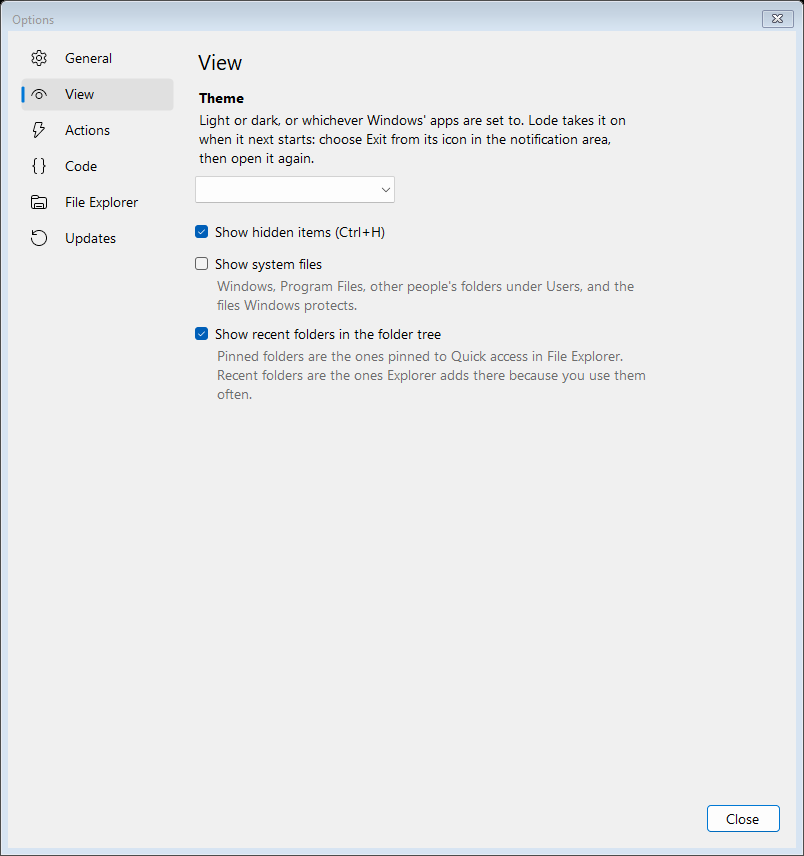
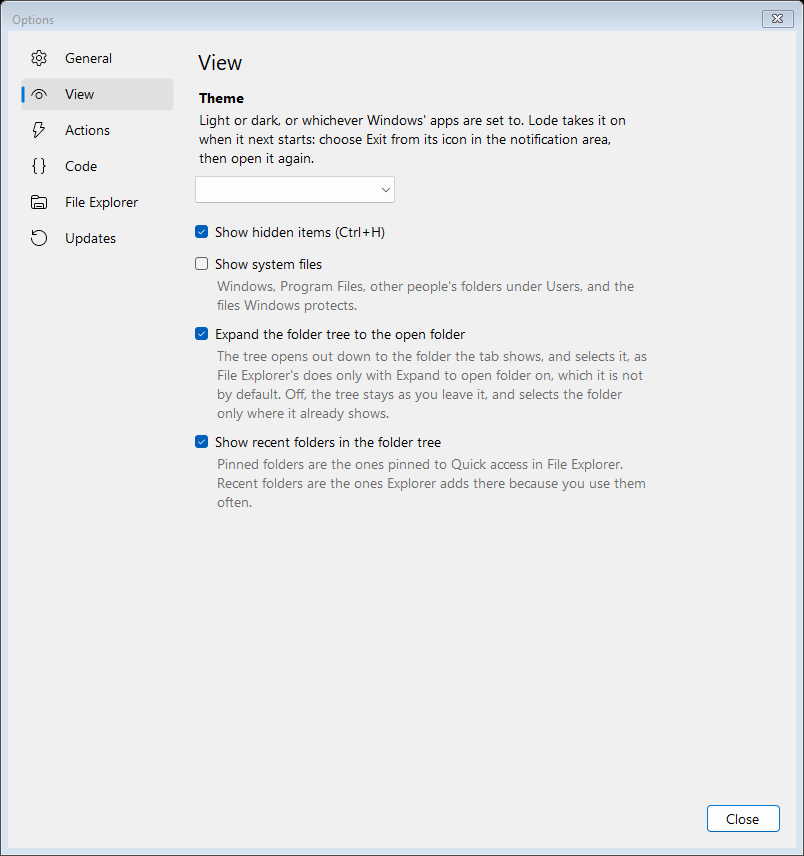
Expand the folder tree to the open folder, on the View page of Options, can be turned off. On, as before, the tree opens out down to whichever folder the tab shows and selects it, which Explorer's navigation pane only does with Expand to open folder turned on, and that is off by default. Off, the tr

Changed region(s): [[0.2488, 0.3645, 0.8085, 0.6075]]

diff --git a/src/Lode/FolderTree.cs b/src/Lode/FolderTree.cs
@@ -1095,11 +1095,18 @@ sealed class FolderTree : TreeView
     }
 
     /// <summary>
-    /// Moves the selection to the node for <paramref name="path"/>, expanding down to it.
+    /// Moves the selection to the node for <paramref name="path"/>, expanding down to it. With
+    /// <see cref="Settings.ExpandToOpenFolder"/> off, only selects it where it already shows.
     /// </summary>
     public void SelectPath(string path)
     {
         wanted = path;
+
+        if (!settings.ExpandToOpenFolder)
+        {
+            SelectShowing(path);
+            return;
+        }
 
         // A selected shortcut still moves to the folder in the tree below, when there is one.
         if (SelectedNode is { Tag: string selected } current &&
@@ -1119,6 +1126,78 @@ sealed class FolderTree : TreeView
         }
 
         Track(SelectAsync(path));
+    }
+
+    // Without expanding to the open folder, as Explorer's tree is by default: nothing is read,
+    // expanded or scrolled to. The folder is selected where it already shows, a pinned or recent
+    // entry for it included, and otherwise nothing is, rather than a folder it has left.
+    void SelectShowing(string path)
+    {
+        // Anywhere on its way to being selected, from before the option was turned off, has
+        // been overtaken.
+        selectVersion++;
+        selecting = null;
+
+        // A pinned entry just picked stays selected, rather than handing on to the folder below.
+        if (SelectedNode is { Tag: string selected } &&
+            Locations.Same(selected, path))
+        {
+            return;
+        }
+
+        var node = ShowingNode(path);
+        SelectedNode = node;
+
+        // Taking the selection away raises no AfterSelect.
+        if (node == null)
+        {
+            ShowShortcutsSelected(null);
+            WatchSelected(null);
+        }
+    }
+
+    // The node for the folder where the tree shows it: under This PC, down through folders that
+    // are expanded, or else an entry in a Pinned or Recent section that is. Null where it
+    // doesn't show.
+    TreeNode? ShowingNode(string path)
+    {
+        if (Locations.IsThisPC(path))
+        {
+            return places.ShowComputer ? computerNode : null;
+        }
+
+        TreeNode? current = null;
+        if (places.ShowComputer &&
+            computerNode.IsExpanded)
+        {
+            current = computerNode.Nodes
+                .Cast<TreeNode>()
+                .Where(_ => Locations.IsWithin(path, (string)_.Tag!))
+                .MaxBy(_ => ((string)_.Tag!).Length);
+        }
+
+        while (current != null)
+        {
+            if (Locations.Same((string)current.Tag!, path))
+            {
+                return current;
+            }
+
+            if (!current.IsExpanded)
+            {
+                break;
+            }
+
+            current = current.Nodes
+                .Cast<TreeNode>()
+                .FirstOrDefault(_ => _.Tag is string child && Locations.IsWithin(path, child));
+        }
+
+        return Nodes
+            .Cast<TreeNode>()
+            .Where(_ => _ is { Tag: Section, IsExpanded: true })
+            .SelectMany(_ => _.Nodes.Cast<TreeNode>())
+            .FirstOrDefault(_ => Locations.Same((string)_.Tag!, path));
     }
 
     // Goes down to the folder as far as the tree has been read, reads the folders still in the

diff --git a/src/Lode.Tests/FolderTreeTests.cs b/src/Lode.Tests/FolderTreeTests.cs
@@ -201,6 +201,64 @@ public class FolderTreeTests
         await Verify(Dump(tree));
     }
 
+    // With Expand to open folder off, as Explorer's tree is by default, nothing is read or
+    // expanded: a folder is selected only where the tree already shows it, and where it doesn't,
+    // nothing is, rather than the folder before.
+    [Test]
+    public async Task WithoutExpandingToTheOpenFolderOnlyAFolderShowingIsSelected()
+    {
+        using var fixture = Fixture.Create();
+        using var tree = Create(fixture, new() { ShowHidden = false, ExpandToOpenFolder = false });
+
+        tree.SelectPath(fixture.At("Source", "Deep"));
+        await Pump.Loaded(tree);
+        var notShowing = Dump(tree);
+
+        await Expand(tree, await Projects(tree));
+        tree.SelectPath(fixture.At("Docs"));
+        await Pump.Loaded(tree);
+        var showing = Dump(tree);
+
+        tree.SelectPath(fixture.At("Source", "Deep"));
+        await Pump.Loaded(tree);
+
+        await Verify(
+            new
+            {
+                notShowing,
+                showing,
+                thenOneNotShowing = Dump(tree)
+            });
+    }
+
+    // Picked where it is pinned, a folder stays selected there, rather than handing on to the
+    // folder under This PC, which would expand down to it.
+    [Test]
+    public async Task WithoutExpandingToTheOpenFolderAPickedPinnedFolderStaysSelected()
+    {
+        using var fixture = Fixture.Create();
+        using var tree = Create(fixture, new() { ShowHidden = false, ExpandToOpenFolder = false }, fixture.At("Source"));
+        var selected = new List<string>();
+        tree.PathSelected += selected.Add;
+
+        tree.SelectByUser(tree.Nodes[0].Nodes[0]);
+        // As the window does once the tab has gone there.
+        tree.SelectPath(fixture.At("Source"));
+        await Pump.For(TimeSpan.FromMilliseconds(100));
+        var picked = Dump(tree);
+
+        tree.SelectPath(fixture.At("Docs"));
+        await Pump.Loaded(tree);
+
+        await Verify(
+            new
+            {
+                selected = selected.Select(fixture.Relative),
+                picked,
+                thenOneNotShowing = Dump(tree)
+            });
+    }
+
     [Test]
     public async Task PinnedAndRecentAreSeparateSections()
     {

diff --git a/src/Lode/OptionsForm.cs b/src/Lode/OptionsForm.cs
@@ -46,6 +46,14 @@ class OptionsForm : Form
         Margin = new(3, 0, 3, 0)
     };
 
+    readonly CheckBox expandToOpenFolder = new()
+    {
+        Name = "expandToOpenFolder",
+        Text = "Expand the folder tree to the open folder",
+        AutoSize = true,
+        Margin = new(3, 0, 3, 0)
+    };
+
     readonly CheckBox showRecent = new()
     {
         Name = "showRecent",
@@ -269,6 +277,12 @@ class OptionsForm : Form
         theme.SelectedIndexChanged += (_, _) =>
         {
             settings.Theme = (Theme) theme.SelectedIndex;
+        };
+        expandToOpenFolder.Checked = settings.ExpandToOpenFolder;
+        expandToOpenFolder.CheckedChanged += (_, _) =>
+        {
+            settings.ExpandToOpenFolder = expandToOpenFolder.Checked;
+            SettingsChanged?.Invoke();
         };
         showRecent.Checked = settings.ShowRecent;
         showRecent.CheckedChanged += (_, _) =>
@@ -506,6 +520,11 @@ class OptionsForm : Form
         showHidden,
         showSystem,
         Note("Windows, Program Files, other people's folders under Users, and the files Windows protects."),
+        expandToOpenFolder,
+        Note(
+            "The tree opens out down to the folder the tab shows, and selects it, as File " +
+            "Explorer's does only with Expand to open folder on, which it is not by default. Off, " +
+            "the tree stays as you leave it, and selects the folder only where it already shows."),
         showRecent,
         Note(
             "Pinned folders are the ones pinned to Quick access in File Explorer. Recent folders " +

diff --git a/src/Lode.Tests/OptionsFormTests.cs b/src/Lode.Tests/OptionsFormTests.cs
@@ -208,6 +208,28 @@ public class OptionsFormTests
             });
     }
 
+    // On by default, unlike Explorer's Expand to open folder.
+    [Test]
+    public async Task UntickingExpandToOpenFolderChangesTheSetting()
+    {
+        using var scratch = new RegistryScratch();
+        var settings = new Settings();
+        using var form = Show(scratch.Replacement(), settings);
+        var changes = 0;
+        form.SettingsChanged += () => changes++;
+        var before = settings.ExpandToOpenFolder;
+
+        ((CheckBox) form.Controls.Find("expandToOpenFolder", true)[0]).Checked = false;
+
+        await Verify(
+            new
+            {
+                before,
+                after = settings.ExpandToOpenFolder,
+                changes
+            });
+    }
+
     // Off by default, so purged files go to the Recycle Bin.
     [Test]
     public async Task TickingPurgePermanentlyChangesTheSetting()

diff --git a/src/Lode/Settings.cs b/src/Lode/Settings.cs
@@ -34,6 +34,11 @@ sealed class Settings
     // The tree's Recent section: folders Explorer adds to Quick access because they are used often.
     public bool ShowRecent { get; set; } = true;
 
+    // The tree opens out down to the folder the tab shows and selects it there, as Explorer's
+    // does only with its Expand to open folder setting, which is off by default. Off, the tree is
+    // left as it is, and the folder is selected only where it already shows. See FolderTree.
+    public bool ExpandToOpenFolder { get; set; } = true;
+
     // Where each action shows, for those changed in Options: as a button on the actions bar, in
     // the right-click menu, both or neither. Those missing show where LodeActions says.
     public Dictionary<string, ActionPlacement> Actions { get; set; } = [];

diff --git a/readme.md b/readme.md
@@ -115,7 +115,7 @@ After restoring, folders open in Explorer straight away. If one still opens in L
  * Lives in the tray. Closing the last window hides it; click the tray icon (or launch Lode again) to bring it back, or Shift+click it for a new window, and choose **Exit** from the tray menu or the ⋯ menu to quit. The tray icon is put on the taskbar rather than in the overflow, unless you have moved it there yourself.
  * One copy per Windows account. Launching Lode again, including a folder opened from Explorer or another app (GitHub Desktop's **Show in Explorer**, say) when Lode replaces it, hands the folders to the running copy. Each opens in a new tab in the Lode window used last, which comes to the front. A folder a tab already shows, in any window, selects that tab and brings its window to the front instead; a file selects itself in the tab showing its folder. With every window closed to the tray, the folders open in a new window. Launching Lode with no folder (Win+E, say) brings back the windows in the tray, or opens a new window when there are none. All windows share that one process, so tabs can be dragged between any of them.
  * Jump list, as Explorer has: right-click Lode's button on the taskbar, or a pin of Lode, for the folders pinned to Quick access under **Pinned**, then those Quick access adds because you use them often (the tree's Recent) under **Frequent**, each with the icon Explorer gives it, Desktop's and Downloads' included, and named as its tab would be. Click one to open it in Lode, as a folder handed over by another launch opens. The taskbar keeps the list, so it is there while Lode is closed; Lode writes it again when it starts and when a folder is pinned or unpinned in Lode. Pinned folders take the first of the entries Windows shows (10 unless changed), and Frequent gets the rest. Windows lets no app add to the taskbar's own Pinned section, the one Explorer's pins are in, so Lode's Pinned is a section of its own: **Remove from this list** leaves a folder out of the list, for as long as Quick access has it, without unpinning it, and the pin beside an entry pins it in the list, in a Pinned section of the taskbar's above Lode's, rather than to Quick access.
- * Folder tree with a **Pinned** section (folders pinned to Quick access in Explorer), a **Recent** section (folders Explorer adds to Quick access because you use them often), then the drives. It follows the active tab. To pin a folder, drag it (or a tab) onto the **Pinned** heading, right-click it (in the list or the tree) and choose **Pin to Quick access**, or use **Pin this folder to Quick access** in the ⋯ menu for the folder the tab shows. Both unpin too. Drag a pinned folder up or down the **Pinned** list to reorder it, as in Explorer, or select it and press Alt+Shift+Up or Alt+Shift+Down. Pins made in Explorer are read when Lode starts. Right-clicking a folder in the tree offers what a folder in the list gets: Open, Terminal, Cut, Copy, Paste into it, Rename, Delete, Create shortcut and so on, and **New**, which opens the folder in the tab and makes the folder or file there, with its name ready to edit, as New in the list does. Drives can't be cut, renamed or deleted, and Pinned and Recent entries can't be renamed. Their keys work on the folder selected in the tree too, where the menu would allow them: F2, Delete (and Shift+Delete), Ctrl+X, Ctrl+C, Ctrl+V, Alt+Enter, and Ctrl+Shift+N for a new folder. Right-clicking **This PC** offers what Explorer's menu for it does, less Delete and Rename: Expand or Collapse, **Manage**, **Map network drive**, **Disconnect network drive**, Open in new tab, **Open in new window**, **Add a network location** and Properties (also Alt+Enter). Those that are Windows' own open the same windows they do from Explorer. **Show more options**, or Shift+right-click, gives Windows' menu for This PC, again without Delete and Rename.
+ * Folder tree with a **Pinned** section (folders pinned to Quick access in Explorer), a **Recent** section (folders Explorer adds to Quick access because you use them often), then the drives. It follows the active tab: whichever folder the tab shows, however it got there, the tree opens out down to it and selects it. Explorer's navigation pane only does that with **Expand to open folder** turned on in its Folder Options, and that is off by default, so going into a folder from the list, the address bar or Back leaves Explorer's pane where it was. To have Lode's tree stay as you leave it instead, turn off **Expand the folder tree to the open folder** on the **View** page of Options: the tree then selects the folder only where it already shows, under This PC or in **Pinned** or **Recent**, and otherwise nothing. To pin a folder, drag it (or a tab) onto the **Pinned** heading, right-click it (in the list or the tree) and choose **Pin to Quick access**, or use **Pin this folder to Quick access** in the ⋯ menu for the folder the tab shows. Both unpin too. Drag a pinned folder up or down the **Pinned** list to reorder it, as in Explorer, or select it and press Alt+Shift+Up or Alt+Shift+Down. Pins made in Explorer are read when Lode starts. Right-clicking a folder in the tree offers what a folder in the list gets: Open, Terminal, Cut, Copy, Paste into it, Rename, Delete, Create shortcut and so on, and **New**, which opens the folder in the tab and makes the folder or file there, with its name ready to edit, as New in the list does. Drives can't be cut, renamed or deleted, and Pinned and Recent entries can't be renamed. Their keys work on the folder selected in the tree too, where the menu would allow them: F2, Delete (and Shift+Delete), Ctrl+X, Ctrl+C, Ctrl+V, Alt+Enter, and Ctrl+Shift+N for a new folder. Right-clicking **This PC** offers what Explorer's menu for it does, less Delete and Rename: Expand or Collapse, **Manage**, **Map network drive**, **Disconnect network drive**, Open in new tab, **Open in new window**, **Add a network location** and Properties (also Alt+Enter). Those that are Windows' own open the same windows they do from Explorer. **Show more options**, or Shift+right-click, gives Windows' menu for This PC, again without Delete and Rename.
 
    ![This PC's right-click menu](src/Lode.Tests/MenuTests.ThisPCMenu.verified.png)
 
@@ -129,7 +129,7 @@ After restoring, folders open in Explorer straight away. If one still opens in L
 
  * **Options** in the ⋯ menu, a page each, picked from the list down the left as in Windows' Settings (Ctrl+Tab and Ctrl+Shift+Tab go through them). Changes apply straight away.
    * **General**: the default folder new tabs open in, and the text editor.
-   * **View**: the theme, light, dark, or the same as Windows' apps (the default), which Lode takes on when it next starts; show hidden items (on by default; also Ctrl+H), show system files (off by default: Windows, Program Files, other people's folders under Users, and the files Windows protects, in the list and the folder tree), and show the Recent section.
+   * **View**: the theme, light, dark, or the same as Windows' apps (the default), which Lode takes on when it next starts; show hidden items (on by default; also Ctrl+H), show system files (off by default: Windows, Program Files, other people's folders under Users, and the files Windows protects, in the list and the folder tree), expand the folder tree to the open folder (on by default, unlike Explorer's), and show the Recent section.
    * **Actions**: which actions show as buttons and which in the right-click menus, and in each, which are nested under their parent.
    * **Code**: the code folder, whether Git purge deletes permanently, and excluding the code folder from Microsoft Defender.
    * **File Explorer**: replace or restore it.
